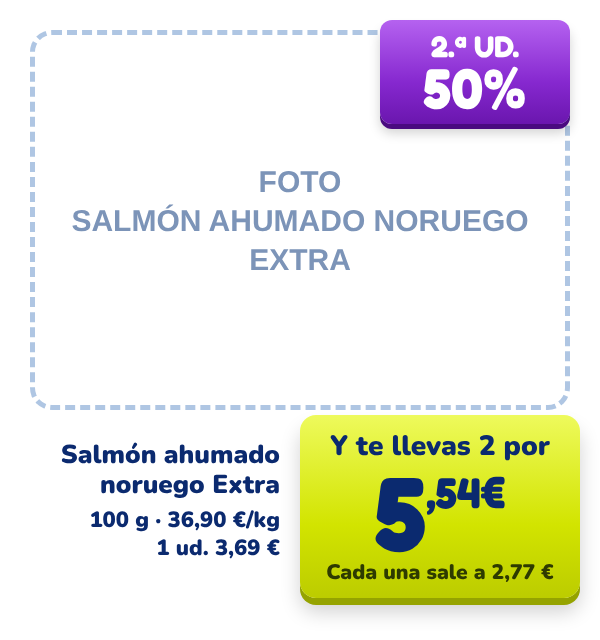
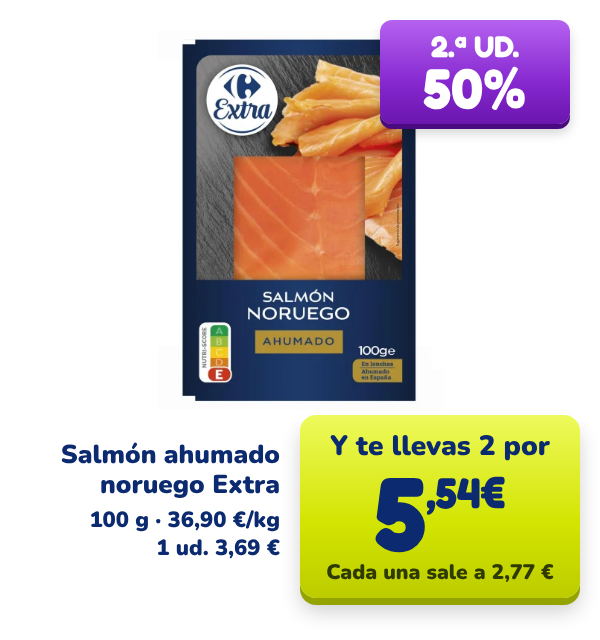
Fotos, nombres y enlaces reales de los productos 2 a 7
Claude-Session: https://claude.ai/code/session_014n8fruw4BUtYLKWozkJouR

Changed region(s): [[0.06, 0.0312, 0.93, 0.6562], [0.03, 0.0625, 0.06, 0.625], [0.93, 0.1875, 0.96, 0.625]]

diff --git a/index.html b/index.html
@@ -19,48 +19,48 @@ body{margin:0;padding:0;background:#EEF3F9}
 <tr><td align="center" style="padding:10px 16px;font-family:Arial, Helvetica, sans-serif;font-size:12px;line-height:18px;color:#4A5878;background:#EEF3F9">
 <strong style="color:#0B2A6F">Publicidad</strong> · Ejercicio académico. Mercaviva es una marca ficticia; no es una comunicación oficial de Carrefour.<br>
 ¿No ves bien este email? <a href="{$url}" target="_blank" style="color:#0057B8;text-decoration:underline">Ábrelo en el navegador</a></td></tr>
-<tr><td style="padding:0"><a href="https://www.carrefour.es/lavadora-lg-f2x50s9tlb-9-kg-carga-frontal-1200-rpm-wifi-clase-a-blanco/VC4A-32514266/p?utm_source=newsletter&utm_medium=email&utm_campaign=black_friday_2026&utm_content=lavadora_lg" target="_blank"><img src="https://caarlosfdz.github.io/newsletter-mercaviva/bf-cover.jpg?v=10190835" width="600" alt="Mercaviva. Black Friday del 20 de octubre al 27 de noviembre: 50 % y 70 % de descuento en tecnología, electrodomésticos y alimentación" class="fluid" style="display:block;width:100%;max-width:600px;height:auto;border:0"></a></td></tr>
-<tr><td style="padding:0"><a href="https://www.carrefour.es/lavadora-lg-f2x50s9tlb-9-kg-carga-frontal-1200-rpm-wifi-clase-a-blanco/VC4A-32514266/p?utm_source=newsletter&utm_medium=email&utm_campaign=black_friday_2026&utm_content=lavadora_lg" target="_blank"><img src="https://caarlosfdz.github.io/newsletter-mercaviva/bf-p1.jpg?v=10190835" width="600" alt="Lavadora LG 9 kg: 164,70 €, antes 549 €, 70 % de descuento" class="fluid" style="display:block;width:100%;max-width:600px;height:auto;border:0"></a></td></tr>
-<tr><td style="padding:0"><img src="https://caarlosfdz.github.io/newsletter-mercaviva/bf-tit-tecnologia.jpg?v=10190835" width="600" alt="Ofertas en tecnología: descuentos de hasta el 70 %" class="fluid" style="display:block;width:100%;max-width:600px;height:auto;border:0"></td></tr>
+<tr><td style="padding:0"><a href="https://www.carrefour.es/lavadora-lg-f2x50s9tlb-9-kg-carga-frontal-1200-rpm-wifi-clase-a-blanco/VC4A-32514266/p?utm_source=newsletter&utm_medium=email&utm_campaign=black_friday_2026&utm_content=lavadora_lg" target="_blank"><img src="https://caarlosfdz.github.io/newsletter-mercaviva/bf-cover.jpg?v=10190836" width="600" alt="Mercaviva. Black Friday del 20 de octubre al 27 de noviembre: 50 % y 70 % de descuento en tecnología, electrodomésticos y alimentación" class="fluid" style="display:block;width:100%;max-width:600px;height:auto;border:0"></a></td></tr>
+<tr><td style="padding:0"><a href="https://www.carrefour.es/lavadora-lg-f2x50s9tlb-9-kg-carga-frontal-1200-rpm-wifi-clase-a-blanco/VC4A-32514266/p?utm_source=newsletter&utm_medium=email&utm_campaign=black_friday_2026&utm_content=lavadora_lg" target="_blank"><img src="https://caarlosfdz.github.io/newsletter-mercaviva/bf-p1.jpg?v=10190836" width="600" alt="Lavadora LG 9 kg: 164,70 €, antes 549 €, 70 % de descuento" class="fluid" style="display:block;width:100%;max-width:600px;height:auto;border:0"></a></td></tr>
+<tr><td style="padding:0"><img src="https://caarlosfdz.github.io/newsletter-mercaviva/bf-tit-tecnologia.jpg?v=10190836" width="600" alt="Ofertas en tecnología: descuentos de hasta el 70 %" class="fluid" style="display:block;width:100%;max-width:600px;height:auto;border:0"></td></tr>
 <tr><td style="padding:0"><table role="presentation" cellpadding="0" cellspacing="0" border="0" width="100%"><tr>
-<td class="col" width="300" valign="top" style="width:300px;vertical-align:top"><a href="https://www.carrefour.es/?utm_source=newsletter&utm_medium=email&utm_campaign=black_friday_2026&utm_content=producto6" target="_blank"><img src="https://caarlosfdz.github.io/newsletter-mercaviva/bf-p6.png?v=10190835" width="300" alt="Producto 6: 95,22 €, antes 218,99 €, −56,5 % y envío gratis" class="fluid" style="display:block;width:100%;max-width:300px;height:auto;border:0"></a>
+<td class="col" width="300" valign="top" style="width:300px;vertical-align:top"><a href="https://www.carrefour.es/proyector-yaber-pro-u9-proyector-1080p-nativo-con-wifi-5g-y-bluetooth-15000lm-brillo-ultra-alto-460-ansi-corrector-keystone-4p-4d/0602561264473/p?utm_source=newsletter&utm_medium=email&utm_campaign=black_friday_2026&utm_content=proyector_yaber" target="_blank"><img src="https://caarlosfdz.github.io/newsletter-mercaviva/bf-p6.png?v=10190836" width="300" alt="Proyector Yaber Pro U9: 95,22 €, antes 218,99 €, −56,5 % y envío gratis" class="fluid" style="display:block;width:100%;max-width:300px;height:auto;border:0"></a>
 <div style="padding:4px 14px 26px"><table role="presentation" cellpadding="0" cellspacing="0" border="0" width="100%"><tr><td align="center" bgcolor="#FFFFFF" style="border-radius:40px">
-<a href="https://www.carrefour.es/?utm_source=newsletter&utm_medium=email&utm_campaign=black_friday_2026&utm_content=producto6" target="_blank" style="display:block;text-decoration:none"><img src="https://caarlosfdz.github.io/newsletter-mercaviva/bf-btn-p6.png?v=10190835" width="270" alt="Llévatelo ya" class="fluid" style="display:block;width:100%;max-width:270px;height:auto;border:0;font-family:Arial, Helvetica, sans-serif;font-size:16px;font-weight:bold;line-height:52px;color:#0B2A6F;text-align:center"></a></td></tr></table></div></td>
-<td class="col" width="300" valign="top" style="width:300px;vertical-align:top"><a href="https://www.carrefour.es/?utm_source=newsletter&utm_medium=email&utm_campaign=black_friday_2026&utm_content=producto2" target="_blank"><img src="https://caarlosfdz.github.io/newsletter-mercaviva/bf-p2.png?v=10190835" width="300" alt="Producto 2: 154,50 €, antes 309 €, −50 %" class="fluid" style="display:block;width:100%;max-width:300px;height:auto;border:0"></a>
+<a href="https://www.carrefour.es/proyector-yaber-pro-u9-proyector-1080p-nativo-con-wifi-5g-y-bluetooth-15000lm-brillo-ultra-alto-460-ansi-corrector-keystone-4p-4d/0602561264473/p?utm_source=newsletter&utm_medium=email&utm_campaign=black_friday_2026&utm_content=proyector_yaber" target="_blank" style="display:block;text-decoration:none"><img src="https://caarlosfdz.github.io/newsletter-mercaviva/bf-btn-p6.png?v=10190836" width="270" alt="Llévatelo ya" class="fluid" style="display:block;width:100%;max-width:270px;height:auto;border:0;font-family:Arial, Helvetica, sans-serif;font-size:16px;font-weight:bold;line-height:52px;color:#0B2A6F;text-align:center"></a></td></tr></table></div></td>
+<td class="col" width="300" valign="top" style="width:300px;vertical-align:top"><a href="https://www.carrefour.es/lavavajillas-60-cm-candy-cf3e7e0w-5-programas-13-cubiertos-clase-e-blanco/VC4A-33175690/p?utm_source=newsletter&utm_medium=email&utm_campaign=black_friday_2026&utm_content=lavavajillas_candy" target="_blank"><img src="https://caarlosfdz.github.io/newsletter-mercaviva/bf-p2.png?v=10190836" width="300" alt="Lavavajillas Candy CF3E7E0W: 154,50 €, antes 309 €, −50 %" class="fluid" style="display:block;width:100%;max-width:300px;height:auto;border:0"></a>
 <div style="padding:4px 14px 26px"><table role="presentation" cellpadding="0" cellspacing="0" border="0" width="100%"><tr><td align="center" bgcolor="#FFFFFF" style="border-radius:40px">
-<a href="https://www.carrefour.es/?utm_source=newsletter&utm_medium=email&utm_campaign=black_friday_2026&utm_content=producto2" target="_blank" style="display:block;text-decoration:none"><img src="https://caarlosfdz.github.io/newsletter-mercaviva/bf-btn-p2.png?v=10190835" width="270" alt="Aprovecha el −50 %" class="fluid" style="display:block;width:100%;max-width:270px;height:auto;border:0;font-family:Arial, Helvetica, sans-serif;font-size:16px;font-weight:bold;line-height:52px;color:#0B2A6F;text-align:center"></a></td></tr></table></div></td></tr></table></td></tr>
+<a href="https://www.carrefour.es/lavavajillas-60-cm-candy-cf3e7e0w-5-programas-13-cubiertos-clase-e-blanco/VC4A-33175690/p?utm_source=newsletter&utm_medium=email&utm_campaign=black_friday_2026&utm_content=lavavajillas_candy" target="_blank" style="display:block;text-decoration:none"><img src="https://caarlosfdz.github.io/newsletter-mercaviva/bf-btn-p2.png?v=10190836" width="270" alt="Aprovecha el −50 %" class="fluid" style="display:block;width:100%;max-width:270px;height:auto;border:0;font-family:Arial, Helvetica, sans-serif;font-size:16px;font-weight:bold;line-height:52px;color:#0B2A6F;text-align:center"></a></td></tr></table></div></td></tr></table></td></tr>
 <tr><td style="padding:0"><table role="presentation" cellpadding="0" cellspacing="0" border="0" width="100%"><tr>
-<td class="col" width="300" valign="top" style="width:300px;vertical-align:top"><a href="https://www.carrefour.es/?utm_source=newsletter&utm_medium=email&utm_campaign=black_friday_2026&utm_content=producto5" target="_blank"><img src="https://caarlosfdz.github.io/newsletter-mercaviva/bf-p5.png?v=10190835" width="300" alt="Producto 5: 4.877,62 €, antes 6.150,99 €, −20,7 %" class="fluid" style="display:block;width:100%;max-width:300px;height:auto;border:0"></a>
+<td class="col" width="300" valign="top" style="width:300px;vertical-align:top"><a href="https://www.carrefour.es/tv-lg-oled-evo-c5-2025-83-uhd-4k-oled83c5ela/8806096419687/p?utm_source=newsletter&utm_medium=email&utm_campaign=black_friday_2026&utm_content=tv_lg_oled" target="_blank"><img src="https://caarlosfdz.github.io/newsletter-mercaviva/bf-p5.png?v=10190836" width="300" alt="TV LG OLED evo C5 83 pulgadas: 4.877,62 €, antes 6.150,99 €, −20,7 %" class="fluid" style="display:block;width:100%;max-width:300px;height:auto;border:0"></a>
 <div style="padding:4px 14px 26px"><table role="presentation" cellpadding="0" cellspacing="0" border="0" width="100%"><tr><td align="center" bgcolor="#FFFFFF" style="border-radius:40px">
-<a href="https://www.carrefour.es/?utm_source=newsletter&utm_medium=email&utm_campaign=black_friday_2026&utm_content=producto5" target="_blank" style="display:block;text-decoration:none"><img src="https://caarlosfdz.github.io/newsletter-mercaviva/bf-btn-p5.png?v=10190835" width="270" alt="Ahorra 1.273 €" class="fluid" style="display:block;width:100%;max-width:270px;height:auto;border:0;font-family:Arial, Helvetica, sans-serif;font-size:16px;font-weight:bold;line-height:52px;color:#0B2A6F;text-align:center"></a></td></tr></table></div></td>
-<td class="col" width="300" valign="top" style="width:300px;vertical-align:top"><a href="https://www.carrefour.es/?utm_source=newsletter&utm_medium=email&utm_campaign=black_friday_2026&utm_content=producto3" target="_blank"><img src="https://caarlosfdz.github.io/newsletter-mercaviva/bf-p3.png?v=10190835" width="300" alt="Producto 3: súperchollo a 519 €" class="fluid" style="display:block;width:100%;max-width:300px;height:auto;border:0"></a>
+<a href="https://www.carrefour.es/tv-lg-oled-evo-c5-2025-83-uhd-4k-oled83c5ela/8806096419687/p?utm_source=newsletter&utm_medium=email&utm_campaign=black_friday_2026&utm_content=tv_lg_oled" target="_blank" style="display:block;text-decoration:none"><img src="https://caarlosfdz.github.io/newsletter-mercaviva/bf-btn-p5.png?v=10190836" width="270" alt="Ahorra 1.273 €" class="fluid" style="display:block;width:100%;max-width:270px;height:auto;border:0;font-family:Arial, Helvetica, sans-serif;font-size:16px;font-weight:bold;line-height:52px;color:#0B2A6F;text-align:center"></a></td></tr></table></div></td>
+<td class="col" width="300" valign="top" style="width:300px;vertical-align:top"><a href="https://www.carrefour.es/consola-nintendo-switch-2-256-gb-star-fox/VLOT-34789303/p?utm_source=newsletter&utm_medium=email&utm_campaign=black_friday_2026&utm_content=switch2_starfox" target="_blank"><img src="https://caarlosfdz.github.io/newsletter-mercaviva/bf-p3.png?v=10190836" width="300" alt="Nintendo Switch 2 + Star Fox: súperchollo a 519 €" class="fluid" style="display:block;width:100%;max-width:300px;height:auto;border:0"></a>
 <div style="padding:4px 14px 26px"><table role="presentation" cellpadding="0" cellspacing="0" border="0" width="100%"><tr><td align="center" bgcolor="#FFFFFF" style="border-radius:40px">
-<a href="https://www.carrefour.es/?utm_source=newsletter&utm_medium=email&utm_campaign=black_friday_2026&utm_content=producto3" target="_blank" style="display:block;text-decoration:none"><img src="https://caarlosfdz.github.io/newsletter-mercaviva/bf-btn-p3.png?v=10190835" width="270" alt="Ver el súperchollo" class="fluid" style="display:block;width:100%;max-width:270px;height:auto;border:0;font-family:Arial, Helvetica, sans-serif;font-size:16px;font-weight:bold;line-height:52px;color:#0B2A6F;text-align:center"></a></td></tr></table></div></td></tr></table></td></tr>
+<a href="https://www.carrefour.es/consola-nintendo-switch-2-256-gb-star-fox/VLOT-34789303/p?utm_source=newsletter&utm_medium=email&utm_campaign=black_friday_2026&utm_content=switch2_starfox" target="_blank" style="display:block;text-decoration:none"><img src="https://caarlosfdz.github.io/newsletter-mercaviva/bf-btn-p3.png?v=10190836" width="270" alt="Ver el súperchollo" class="fluid" style="display:block;width:100%;max-width:270px;height:auto;border:0;font-family:Arial, Helvetica, sans-serif;font-size:16px;font-weight:bold;line-height:52px;color:#0B2A6F;text-align:center"></a></td></tr></table></div></td></tr></table></td></tr>
 
 <tr><td style="padding:0"><table role="presentation" cellpadding="0" cellspacing="0" border="0" width="100%"><tr>
-<td class="col" width="300" valign="top" style="width:300px;vertical-align:top"><a href="https://www.carrefour.es/?utm_source=newsletter&utm_medium=email&utm_campaign=black_friday_2026&utm_content=producto4" target="_blank"><img src="https://caarlosfdz.github.io/newsletter-mercaviva/bf-p4.png?v=10190835" width="300" alt="Producto 4 en precompra: 59,90 €, antes 69,99 €, envío gratis" class="fluid" style="display:block;width:100%;max-width:300px;height:auto;border:0"></a>
+<td class="col" width="300" valign="top" style="width:300px;vertical-align:top"><a href="https://www.carrefour.es/pikmin-4-academia-dandori-para-switch-2/VC4A-34697905/p?utm_source=newsletter&utm_medium=email&utm_campaign=black_friday_2026&utm_content=pikmin4" target="_blank"><img src="https://caarlosfdz.github.io/newsletter-mercaviva/bf-p4.png?v=10190836" width="300" alt="Pikmin 4 + Academia Dandori en precompra: 59,90 €, antes 69,99 €, envío gratis" class="fluid" style="display:block;width:100%;max-width:300px;height:auto;border:0"></a>
 <div style="padding:4px 14px 26px"><table role="presentation" cellpadding="0" cellspacing="0" border="0" width="100%"><tr><td align="center" bgcolor="#FFFFFF" style="border-radius:40px">
-<a href="https://www.carrefour.es/?utm_source=newsletter&utm_medium=email&utm_campaign=black_friday_2026&utm_content=producto4" target="_blank" style="display:block;text-decoration:none"><img src="https://caarlosfdz.github.io/newsletter-mercaviva/bf-btn-p4.png?v=10190835" width="270" alt="Resérvalo ya" class="fluid" style="display:block;width:100%;max-width:270px;height:auto;border:0;font-family:Arial, Helvetica, sans-serif;font-size:16px;font-weight:bold;line-height:52px;color:#0B2A6F;text-align:center"></a></td></tr></table></div></td>
+<a href="https://www.carrefour.es/pikmin-4-academia-dandori-para-switch-2/VC4A-34697905/p?utm_source=newsletter&utm_medium=email&utm_campaign=black_friday_2026&utm_content=pikmin4" target="_blank" style="display:block;text-decoration:none"><img src="https://caarlosfdz.github.io/newsletter-mercaviva/bf-btn-p4.png?v=10190836" width="270" alt="Resérvalo ya" class="fluid" style="display:block;width:100%;max-width:270px;height:auto;border:0;font-family:Arial, Helvetica, sans-serif;font-size:16px;font-weight:bold;line-height:52px;color:#0B2A6F;text-align:center"></a></td></tr></table></div></td>
 <td class="col" width="300" valign="middle" style="width:300px;vertical-align:middle;padding:20px;font-family:Arial, Helvetica, sans-serif;color:#0B2A6F">
 <p style="margin:0 0 8px;font-size:20px;line-height:24px;font-weight:bold">Envío gratis</p>
 <p style="margin:0;font-size:15px;line-height:21px">En los productos marcados. Ofertas válidas del 20 de octubre al 27 de noviembre o hasta fin de existencias.</p></td></tr></table></td></tr>
-<tr><td style="padding:0"><img src="https://caarlosfdz.github.io/newsletter-mercaviva/bf-tit-compra.jpg?v=10190835" width="600" alt="Ofertas en tu compra: 3x2, 2.ª unidad al 50 % y precios imbatibles" class="fluid" style="display:block;width:100%;max-width:600px;height:auto;border:0"></td></tr>
+<tr><td style="padding:0"><img src="https://caarlosfdz.github.io/newsletter-mercaviva/bf-tit-compra.jpg?v=10190836" width="600" alt="Ofertas en tu compra: 3x2, 2.ª unidad al 50 % y precios imbatibles" class="fluid" style="display:block;width:100%;max-width:600px;height:auto;border:0"></td></tr>
 <tr><td style="padding:0"><table role="presentation" cellpadding="0" cellspacing="0" border="0" width="100%"><tr>
-<td class="col" width="300" valign="top" style="width:300px;vertical-align:top"><a href="https://www.carrefour.es/?utm_source=newsletter&utm_medium=email&utm_campaign=black_friday_2026&utm_content=aceite_coosur" target="_blank"><img src="https://caarlosfdz.github.io/newsletter-mercaviva/bf-p9.png?v=10190835" width="300" alt="Aceite Coosur Serie Oro 1 l: 3x2, el litro sale a 4,13 €" class="fluid" style="display:block;width:100%;max-width:300px;height:auto;border:0"></a>
+<td class="col" width="300" valign="top" style="width:300px;vertical-align:top"><a href="https://www.carrefour.es/?utm_source=newsletter&utm_medium=email&utm_campaign=black_friday_2026&utm_content=aceite_coosur" target="_blank"><img src="https://caarlosfdz.github.io/newsletter-mercaviva/bf-p9.png?v=10190836" width="300" alt="Aceite Coosur Serie Oro 1 l: 3x2, el litro sale a 4,13 €" class="fluid" style="display:block;width:100%;max-width:300px;height:auto;border:0"></a>
 <div style="padding:4px 14px 26px"><table role="presentation" cellpadding="0" cellspacing="0" border="0" width="100%"><tr><td align="center" bgcolor="#FFFFFF" style="border-radius:40px">
-<a href="https://www.carrefour.es/?utm_source=newsletter&utm_medium=email&utm_campaign=black_friday_2026&utm_content=aceite_coosur" target="_blank" style="display:block;text-decoration:none"><img src="https://caarlosfdz.github.io/newsletter-mercaviva/bf-btn-p9.png?v=10190835" width="270" alt="Llévate 3, paga 2" class="fluid" style="display:block;width:100%;max-width:270px;height:auto;border:0;font-family:Arial, Helvetica, sans-serif;font-size:16px;font-weight:bold;line-height:52px;color:#0B2A6F;text-align:center"></a></td></tr></table></div></td>
-<td class="col" width="300" valign="top" style="width:300px;vertical-align:top"><a href="https://www.carrefour.es/?utm_source=newsletter&utm_medium=email&utm_campaign=black_friday_2026&utm_content=aceite_la_espanola" target="_blank"><img src="https://caarlosfdz.github.io/newsletter-mercaviva/bf-p10.png?v=10190835" width="300" alt="Aceite La Española suave 1 l: 3x2, el litro sale a 3,66 €" class="fluid" style="display:block;width:100%;max-width:300px;height:auto;border:0"></a>
+<a href="https://www.carrefour.es/?utm_source=newsletter&utm_medium=email&utm_campaign=black_friday_2026&utm_content=aceite_coosur" target="_blank" style="display:block;text-decoration:none"><img src="https://caarlosfdz.github.io/newsletter-mercaviva/bf-btn-p9.png?v=10190836" width="270" alt="Llévate 3, paga 2" class="fluid" style="display:block;width:100%;max-width:270px;height:auto;border:0;font-family:Arial, Helvetica, sans-serif;font-size:16px;font-weight:bold;line-height:52px;color:#0B2A6F;text-align:center"></a></td></tr></table></div></td>
+<td class="col" width="300" valign="top" style="width:300px;vertical-align:top"><a href="https://www.carrefour.es/?utm_source=newsletter&utm_medium=email&utm_campaign=black_friday_2026&utm_content=aceite_la_espanola" target="_blank"><img src="https://caarlosfdz.github.io/newsletter-mercaviva/bf-p10.png?v=10190836" width="300" alt="Aceite La Española suave 1 l: 3x2, el litro sale a 3,66 €" class="fluid" style="display:block;width:100%;max-width:300px;height:auto;border:0"></a>
 <div style="padding:4px 14px 26px"><table role="presentation" cellpadding="0" cellspacing="0" border="0" width="100%"><tr><td align="center" bgcolor="#FFFFFF" style="border-radius:40px">
-<a href="https://www.carrefour.es/?utm_source=newsletter&utm_medium=email&utm_campaign=black_friday_2026&utm_content=aceite_la_espanola" target="_blank" style="display:block;text-decoration:none"><img src="https://caarlosfdz.github.io/newsletter-mercaviva/bf-btn-p10.png?v=10190835" width="270" alt="Aprovecha el 3x2" class="fluid" style="display:block;width:100%;max-width:270px;height:auto;border:0;font-family:Arial, Helvetica, sans-serif;font-size:16px;font-weight:bold;line-height:52px;color:#0B2A6F;text-align:center"></a></td></tr></table></div></td></tr></table></td></tr>
+<a href="https://www.carrefour.es/?utm_source=newsletter&utm_medium=email&utm_campaign=black_friday_2026&utm_content=aceite_la_espanola" target="_blank" style="display:block;text-decoration:none"><img src="https://caarlosfdz.github.io/newsletter-mercaviva/bf-btn-p10.png?v=10190836" width="270" alt="Aprovecha el 3x2" class="fluid" style="display:block;width:100%;max-width:270px;height:auto;border:0;font-family:Arial, Helvetica, sans-serif;font-size:16px;font-weight:bold;line-height:52px;color:#0B2A6F;text-align:center"></a></td></tr></table></div></td></tr></table></td></tr>
 <tr><td style="padding:0"><table role="presentation" cellpadding="0" cellspacing="0" border="0" width="100%"><tr>
-<td class="col" width="300" valign="top" style="width:300px;vertical-align:top"><a href="https://www.carrefour.es/?utm_source=newsletter&utm_medium=email&utm_campaign=black_friday_2026&utm_content=salmon_ahumado" target="_blank"><img src="https://caarlosfdz.github.io/newsletter-mercaviva/bf-p7.png?v=10190835" width="300" alt="Salmón ahumado Extra 100 g: 2.ª unidad al 50 %, cada una a 2,77 €" class="fluid" style="display:block;width:100%;max-width:300px;height:auto;border:0"></a>
+<td class="col" width="300" valign="top" style="width:300px;vertical-align:top"><a href="https://www.carrefour.es/supermercado/salmon-ahumado-noruego-carrefour-extra-100-g/R-682701980/p?utm_source=newsletter&utm_medium=email&utm_campaign=black_friday_2026&utm_content=salmon_ahumado" target="_blank"><img src="https://caarlosfdz.github.io/newsletter-mercaviva/bf-p7.png?v=10190836" width="300" alt="Salmón ahumado noruego Extra 100 g: 2.ª unidad al 50 %, cada una a 2,77 €" class="fluid" style="display:block;width:100%;max-width:300px;height:auto;border:0"></a>
 <div style="padding:4px 14px 26px"><table role="presentation" cellpadding="0" cellspacing="0" border="0" width="100%"><tr><td align="center" bgcolor="#FFFFFF" style="border-radius:40px">
-<a href="https://www.carrefour.es/?utm_source=newsletter&utm_medium=email&utm_campaign=black_friday_2026&utm_content=salmon_ahumado" target="_blank" style="display:block;text-decoration:none"><img src="https://caarlosfdz.github.io/newsletter-mercaviva/bf-btn-p7.png?v=10190835" width="270" alt="Añadir a la cesta" class="fluid" style="display:block;width:100%;max-width:270px;height:auto;border:0;font-family:Arial, Helvetica, sans-serif;font-size:16px;font-weight:bold;line-height:52px;color:#0B2A6F;text-align:center"></a></td></tr></table></div></td>
-<td class="col" width="300" valign="top" style="width:300px;vertical-align:top"><a href="https://www.carrefour.es/?utm_source=newsletter&utm_medium=email&utm_campaign=black_friday_2026&utm_content=lubina" target="_blank"><img src="https://caarlosfdz.github.io/newsletter-mercaviva/bf-p8.png?v=10190835" width="300" alt="Lubina 600 g aprox.: 5,39 €, antes 5,97 €" class="fluid" style="display:block;width:100%;max-width:300px;height:auto;border:0"></a>
+<a href="https://www.carrefour.es/supermercado/salmon-ahumado-noruego-carrefour-extra-100-g/R-682701980/p?utm_source=newsletter&utm_medium=email&utm_campaign=black_friday_2026&utm_content=salmon_ahumado" target="_blank" style="display:block;text-decoration:none"><img src="https://caarlosfdz.github.io/newsletter-mercaviva/bf-btn-p7.png?v=10190836" width="270" alt="Añadir a la cesta" class="fluid" style="display:block;width:100%;max-width:270px;height:auto;border:0;font-family:Arial, Helvetica, sans-serif;font-size:16px;font-weight:bold;line-height:52px;color:#0B2A6F;text-align:center"></a></td></tr></table></div></td>
+<td class="col" width="300" valign="top" style="width:300px;vertical-align:top"><a href="https://www.carrefour.es/?utm_source=newsletter&utm_medium=email&utm_campaign=black_friday_2026&utm_content=lubina" target="_blank"><img src="https://caarlosfdz.github.io/newsletter-mercaviva/bf-p8.png?v=10190836" width="300" alt="Lubina 600 g aprox.: 5,39 €, antes 5,97 €" class="fluid" style="display:block;width:100%;max-width:300px;height:auto;border:0"></a>
 <div style="padding:4px 14px 26px"><table role="presentation" cellpadding="0" cellspacing="0" border="0" width="100%"><tr><td align="center" bgcolor="#FFFFFF" style="border-radius:40px">
-<a href="https://www.carrefour.es/?utm_source=newsletter&utm_medium=email&utm_campaign=black_friday_2026&utm_content=lubina" target="_blank" style="display:block;text-decoration:none"><img src="https://caarlosfdz.github.io/newsletter-mercaviva/bf-btn-p8.png?v=10190835" width="270" alt="Quiero esta lubina" class="fluid" style="display:block;width:100%;max-width:270px;height:auto;border:0;font-family:Arial, Helvetica, sans-serif;font-size:16px;font-weight:bold;line-height:52px;color:#0B2A6F;text-align:center"></a></td></tr></table></div></td></tr></table></td></tr>
+<a href="https://www.carrefour.es/?utm_source=newsletter&utm_medium=email&utm_campaign=black_friday_2026&utm_content=lubina" target="_blank" style="display:block;text-decoration:none"><img src="https://caarlosfdz.github.io/newsletter-mercaviva/bf-btn-p8.png?v=10190836" width="270" alt="Quiero esta lubina" class="fluid" style="display:block;width:100%;max-width:270px;height:auto;border:0;font-family:Arial, Helvetica, sans-serif;font-size:16px;font-weight:bold;line-height:52px;color:#0B2A6F;text-align:center"></a></td></tr></table></div></td></tr></table></td></tr>
 <tr><td align="center" style="padding:10px 20px 6px"><a href="https://www.mercaviva.es/?utm_source=newsletter&utm_medium=email&utm_campaign=black_friday_2026&utm_content=footer" target="_blank" style="font-family:Arial, Helvetica, sans-serif;font-size:16px;font-weight:bold;color:#0057B8;text-decoration:none">www.mercaviva.es</a></td></tr>
-<tr><td align="center" style="padding:8px 20px 18px"><table role="presentation" cellpadding="0" cellspacing="0" border="0"><tr><td style="padding:0 6px"><a href="https://www.mercaviva.es/redes/instagram" target="_blank"><img src="https://caarlosfdz.github.io/newsletter-mercaviva/bf-ico-instagram.png?v=10190835" width="40" height="40" alt="Instagram" style="display:block;border:0;width:40px;height:40px"></a></td><td style="padding:0 6px"><a href="https://www.mercaviva.es/redes/facebook" target="_blank"><img src="https://caarlosfdz.github.io/newsletter-mercaviva/bf-ico-facebook.png?v=10190835" width="40" height="40" alt="Facebook" style="display:block;border:0;width:40px;height:40px"></a></td><td style="padding:0 6px"><a href="https://www.mercaviva.es/redes/tiktok" target="_blank"><img src="https://caarlosfdz.github.io/newsletter-mercaviva/bf-ico-tiktok.png?v=10190835" width="40" height="40" alt="TikTok" style="display:block;border:0;width:40px;height:40px"></a></td><td style="padding:0 6px"><a href="https://www.mercaviva.es/redes/youtube" target="_blank"><img src="https://caarlosfdz.github.io/newsletter-mercaviva/bf-ico-youtube.png?v=10190835" width="40" height="40" alt="YouTube" style="display:block;border:0;width:40px;height:40px"></a></td><td style="padding:0 6px"><a href="https://www.mercaviva.es/redes/x" target="_blank"><img src="https://caarlosfdz.github.io/newsletter-mercaviva/bf-ico-x.png?v=10190835" width="40" height="40" alt="X" style="display:block;border:0;width:40px;height:40px"></a></td></tr></table></td></tr>
+<tr><td align="center" style="padding:8px 20px 18px"><table role="presentation" cellpadding="0" cellspacing="0" border="0"><tr><td style="padding:0 6px"><a href="https://www.mercaviva.es/redes/instagram" target="_blank"><img src="https://caarlosfdz.github.io/newsletter-mercaviva/bf-ico-instagram.png?v=10190836" width="40" height="40" alt="Instagram" style="display:block;border:0;width:40px;height:40px"></a></td><td style="padding:0 6px"><a href="https://www.mercaviva.es/redes/facebook" target="_blank"><img src="https://caarlosfdz.github.io/newsletter-mercaviva/bf-ico-facebook.png?v=10190836" width="40" height="40" alt="Facebook" style="display:block;border:0;width:40px;height:40px"></a></td><td style="padding:0 6px"><a href="https://www.mercaviva.es/redes/tiktok" target="_blank"><img src="https://caarlosfdz.github.io/newsletter-mercaviva/bf-ico-tiktok.png?v=10190836" width="40" height="40" alt="TikTok" style="display:block;border:0;width:40px;height:40px"></a></td><td style="padding:0 6px"><a href="https://www.mercaviva.es/redes/youtube" target="_blank"><img src="https://caarlosfdz.github.io/newsletter-mercaviva/bf-ico-youtube.png?v=10190836" width="40" height="40" alt="YouTube" style="display:block;border:0;width:40px;height:40px"></a></td><td style="padding:0 6px"><a href="https://www.mercaviva.es/redes/x" target="_blank"><img src="https://caarlosfdz.github.io/newsletter-mercaviva/bf-ico-x.png?v=10190836" width="40" height="40" alt="X" style="display:block;border:0;width:40px;height:40px"></a></td></tr></table></td></tr>
 <tr><td style="padding:16px 24px 26px;font-family:Arial, Helvetica, sans-serif;font-size:12px;line-height:18px;color:#4A5878;background:#EEF3F9">
 <p style="margin:0 0 10px"><strong style="color:#0B2A6F">Condiciones de las promociones.</strong> Válidas del 20/10/2026 al 27/11/2026 o hasta fin de existencias. <strong>3x2:</strong> al comprar 3 unidades del mismo producto, la de menor precio sale gratis. <strong>2.ª ud. al 50 %:</strong> descuento del 50 % en la segunda unidad del mismo producto. <strong>Envío gratis:</strong> solo en los productos indicados y en envíos a la península. Precios con IVA incluido. Descuentos calculados sobre el precio anterior indicado.</p>
 <p style="margin:0 0 10px">Recibes este email porque estás suscrito a la newsletter de Mercaviva. Remitente: Mercaviva Supermercados, S.A. (empresa ficticia), C/ Ejemplo, 1, 28000 Madrid. Consulta nuestra <a href="https://www.mercaviva.es/privacidad" target="_blank" style="color:#0057B8;text-decoration:underline">política de privacidad</a> o <a href="{$unsubscribe}" target="_blank" style="color:#0057B8;text-decoration:underline">date de baja</a> cuando quieras.</p>
